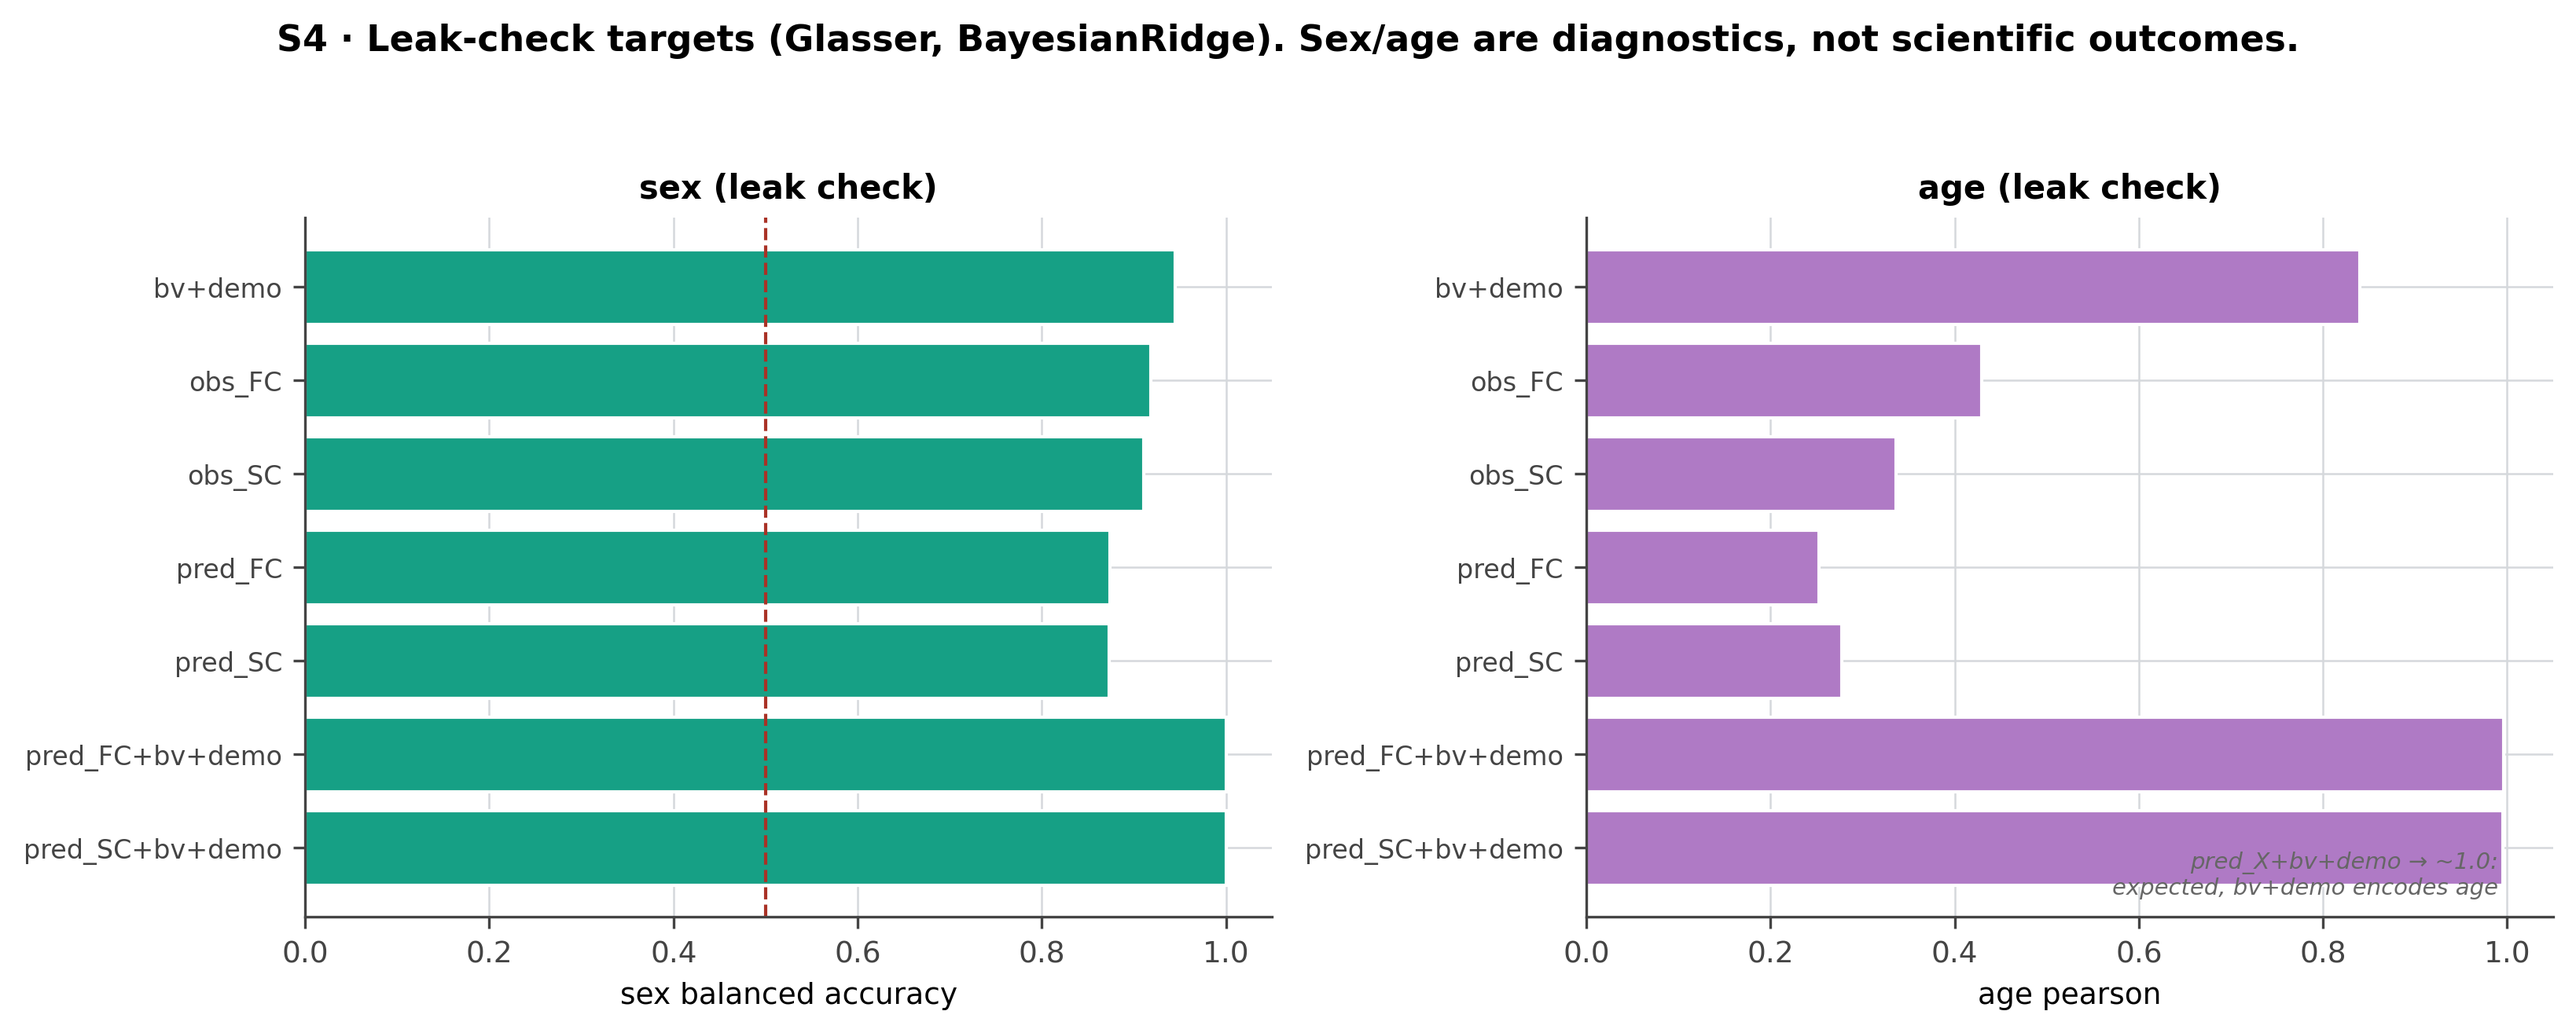
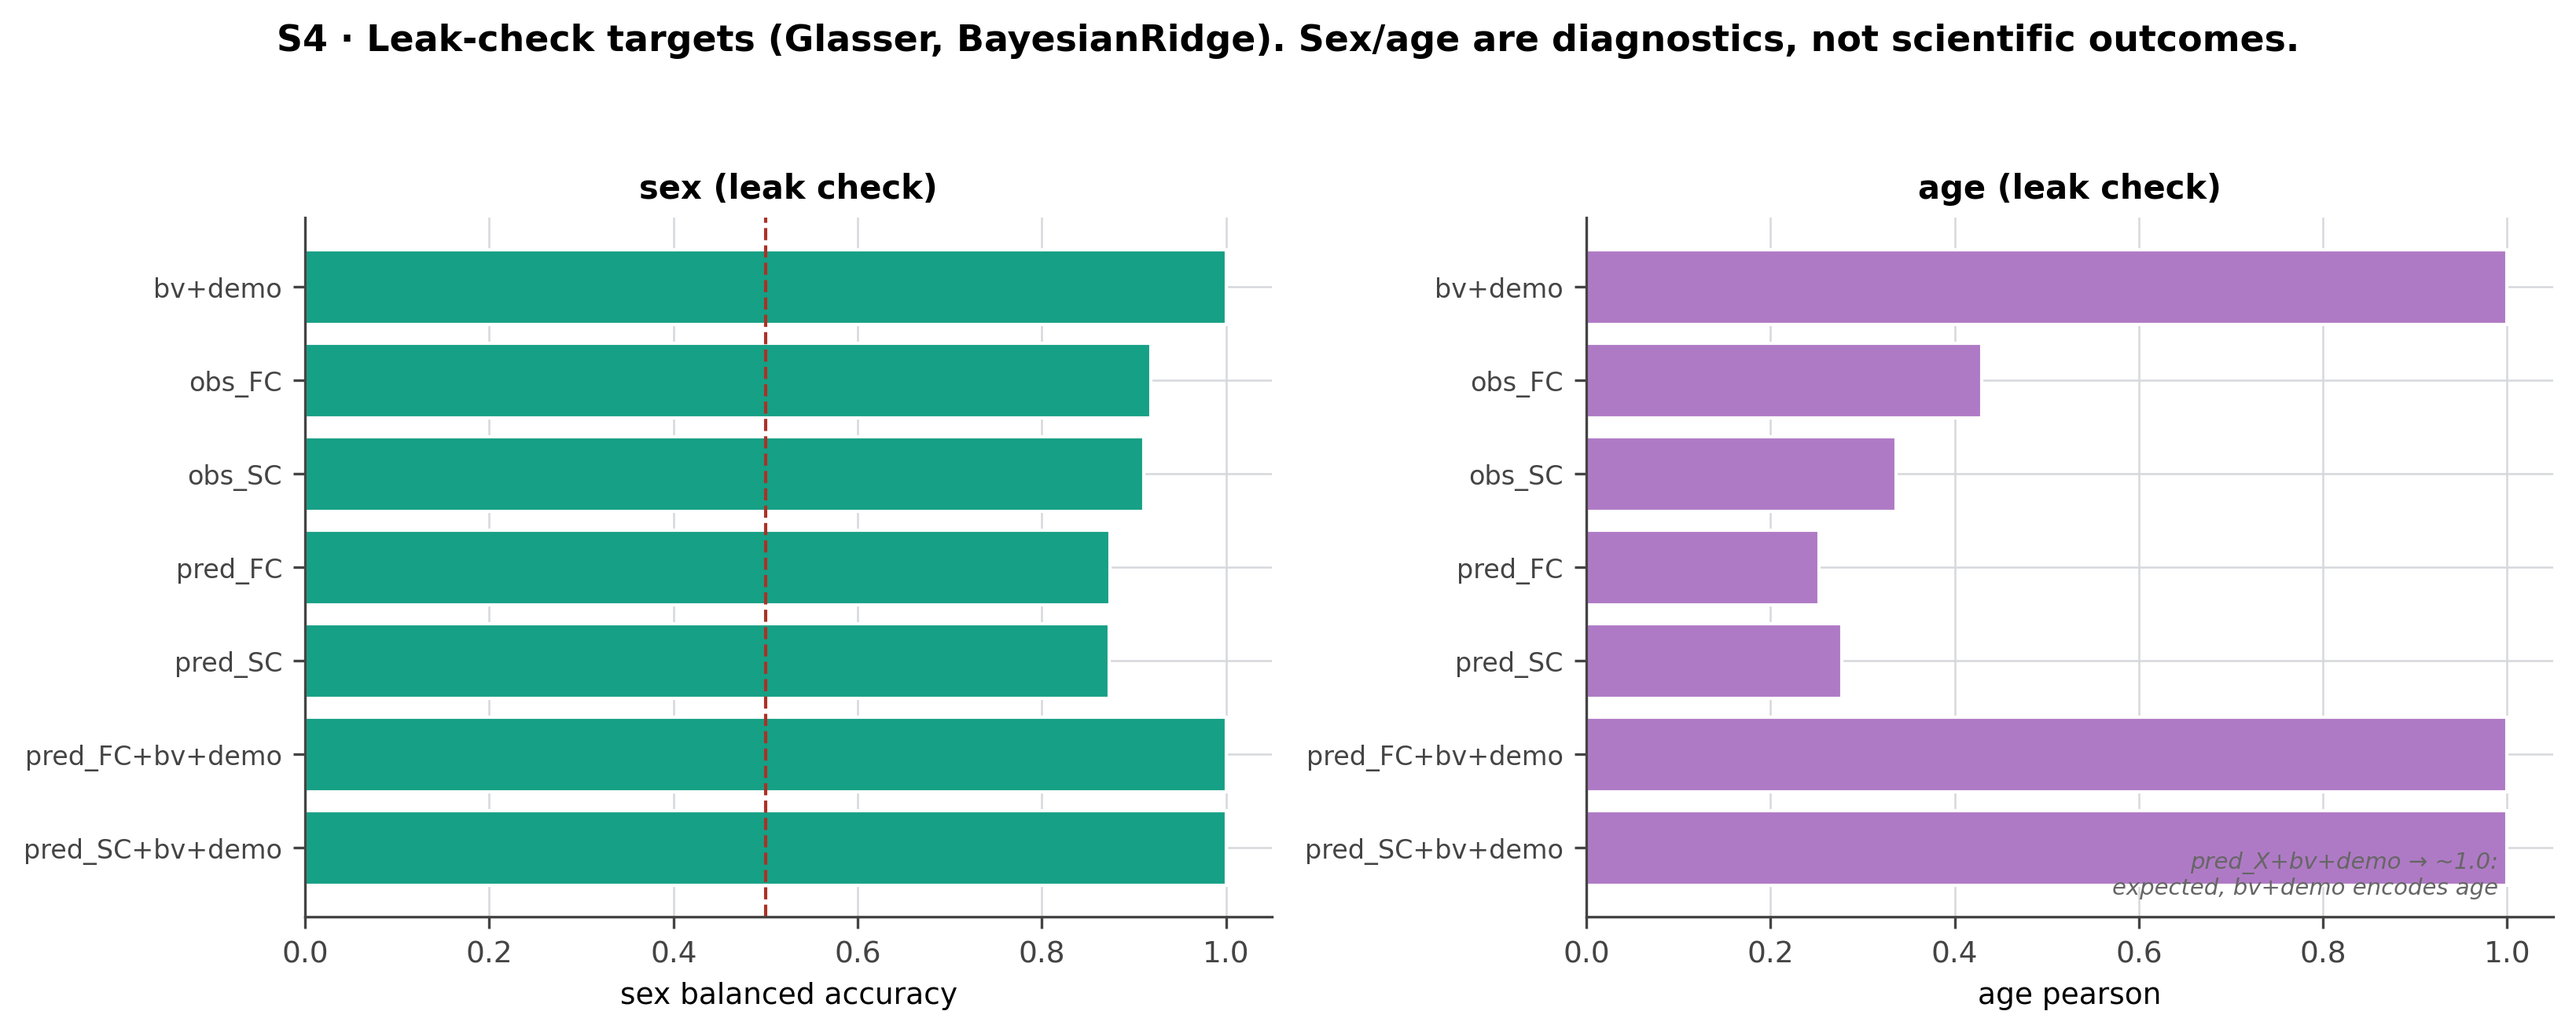
leak fix follow-through: recon confirmed unaffected (bv+demo->SC f32==f64); regenerate S4 leak figure from corrected downstream (bv+demo->sex/age now 1.0)

Changed region(s): [[0.9027, 0.2183, 0.996, 0.3118], [0.4358, 0.2494, 0.498, 0.3118]]

diff --git a/reproduction/exploration/BVDEMO_BASELINE_DIAGNOSIS.md b/reproduction/exploration/BVDEMO_BASELINE_DIAGNOSIS.md
@@ -22,6 +22,13 @@ need to predict sex/age), while cognition prediction rides on the well-condition
 directions. So the bug's entire blast radius was the **sex/age leak-check panel** (never a finding) —
 e.g. the S4 figure that flagged this. F1/F2/Ceiling-B/F6/F7/F8 never used this path and are unaffected.
 
+**Reconstruction confirmed unaffected (no re-run needed).** `bv+demo→SC` (the only recon pair with a
+collinear *source*) is float32 ≡ float64 to 4 decimals via the actual capped estimators
+(BR 0.1864=0.1864, 0.1753=0.1753; PLS within 5e-4). The bug needs the *target* to BE the collinear
+column (the leak case); when the target is a connectome, the bvdemo-source prediction is robust. So
+the reconstruction grid (`reconstruction.csv`) is untouched; only `downstream.csv`'s sex/age rows
+changed.
+
 ---
 
 ## Original investigation (kept for the record)
